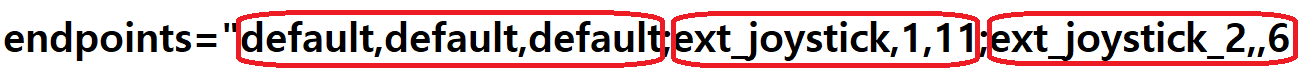
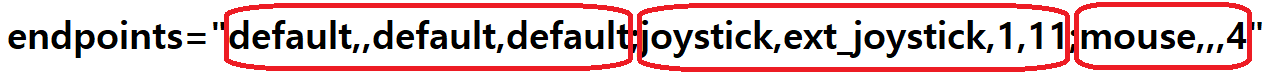
문서 보강

diff --git a/README.md b/README.md
@@ -339,7 +339,7 @@ buttonset2_cfg="default,0,6;buttonset1,0,2;{0x102,0,1},{0x103,0,1}"
 실제 사용 예
 
 ```shell
-endpoints="default,default,default,default;ext_joystick,joystick,1,11;ext_joystick_2,,,6"
+endpoints="default,,default,default;joystick,ext_joystick,1,11;mouse,,,4"
 ```
 
 이 설정은 다음과 같은 의미를 갖는다.
@@ -347,20 +347,20 @@ endpoints="default,default,default,default;ext_joystick,joystick,1,11;ext_joysti
 ![endpoint 파라미터 해석](images/param_ep_sep.png)
 
 > * 첫번째 엔드포인트
->   + 이름 : default (최종적으로 "AmosJoystick_1" 이름이 부여된다.)
->   + 엔드포이트 타입 : Joystick
->   + 사용 버튼셋 인덱스 : 0
+>   + 엔드포이트 타입 : default (기본적으로 joystick)
+>   + 이름 : 빈 값은 default로 해석 (최종적으로 "AmosJoystick_1" 이름이 부여)
+>   + 사용 버튼셋 인덱스 : default (기본적으로 joystick 타입의 default인 0)
 >   + 사용 버튼 갯수 : default (버튼셋에서 지정된 갯수)
 > * 두번째 엔드포인트
+>   + 엔드포이트 타입 : joystick
 >   + 이름 : "ext_joystick"
->   + 엔드포이트 타입 : Joystick
 >   + 사용 버튼셋 인덱스 : 1
 >   + 사용 버튼 갯수 : 11
 > * 세번째 엔드포인트
->   + 이름 : "ext_joystick_2"
->   + 엔드포이트 타입 : Joystick
->   + 사용 버튼셋 인덱스 : 0 (빈 값을 default, 즉 0으로 해석한다.)
->   + 사용 버튼 갯수 : 6
+>   + 엔드포이트 타입 : mouse
+>   + 이름 : 빈 값은 default로 해석 (최종적으로 "AmosMouse_1" 이름이 부여)
+>   + 사용 버튼셋 인덱스 : 빈 값은 default로 해석 (기본적으로 mouse 타입의 default인 2)
+>   + 사용 버튼 갯수 : 4
 
 ### device 설정
 
@@ -409,6 +409,8 @@ device1="74hc165;16,20,21,24,1;0,default,12;1,default,12"
 | mcp3008   | MCP3008 8ch 10비트 SPI ADC        |
 | ads1015   | ADS1015 4ch 12비트 I2C ADC        |
 | ads1115   | ADS1115 4ch 16비트 I2C ADC        |
+| am_spinin | am_spinin Rotary Encoder 컨트롤러 |
+
 
 ### GPIO 입력
 
@@ -739,6 +741,74 @@ sudo modprobe am_joyin buttonset1="default,0,11;{0x03,-100,100},{0x04,-100,100}"
 jstest로 테스트 해 보면 새로운 2개 축이 추가되었고, 조이스틱의 기울어짐에 따라 입력 값이 순차적으로 변하는 것을 확인할 수 있다.
 
 ![jstest for ADC](images/jstest_adc.png)
+
+
+### am_spiin Rotary Encoder 입력
+
+알카노이드와 같은 게임의 경우, 주입력 장치로 스피너를 사용한다.
+이 스피너를 구현하기 위해서는 Rotary Encoder와 같은 장치를 사용하면 된다. 이때 사용할 Rotary Encoder는 RPM 측정용 단상형이 아니라, 양방향 회전을 위한 2상형 이상을 사용해야 하며, 해상도는 최소 100 P/R 이상이어야 한다. 사실 고전 아케이드 게임이 목적이라면 그 이상의 고해상도를 필요로 하지 않는다.
+
+Rotary Encoder는 다음과 같은 형태로 주로 판매되고 있다.
+
+![Rotary Encoder](images/rotary_encoder.jpg)
+
+출력핀은 총4개로, VCC, GND의 전원핀 외에 A, B 핀이 존재한다. 전원은 보통 5V~24V이며, 라즈베리파이로부터 5V 전원을 공급받으면 된다.
+
+이를 실제로 이용하기 위해서는 Rotary Encoder 컨트롤러가 필요하다. 컨트롤러는 LS7366R과 같은 카운터칩을 사용하는 것이 제일 좋긴 하지만, 별도 모듈로 판매되는 것을 찾기 힘들고, 별도의 엔코더 카운터 보드를 구매할 경우 산업용이라 부담스러운 가격대이기에 게임기에 사용하기엔 부적절하다.
+어차피 사람의 손 움직임을 입력 받는 것이기 때문에 고속, 고정밀 컨트롤러가 필요하진 않기에, Arduino 정도의 성능으로도 충분히 스피너용 컨트롤러를 만들 수 있다.
+
+실제로 컨트롤러로 사용할 보드는 Arduino Pro Mini 5V 버전이다.
+
+![Arduino Pro Mini](images/arduino_pro_mini.jpg)
+
+이 보드용 Rotary Encoder 컨트롤러 펌웨어는 다음의 링크에서 받을 수 있다.
+
+[am_spinin 컨트롤러 펌웨어](https://github.com/amos42/am_spinin)
+
+펌웨어 업로드가 완료 되면 해당 컨트롤 보드에 결선을 시작한다.
+Rotary Encoder의 A, B 핀은 보드의 GPIO 2번과 3번 핀에 각각 연결한다.
+
+컨트롤 보드의 A4, A5핀이 I2C용 핀이며, 각각 SDA, SCL 핀이다. 이를 라즈베리파이의 GPIO2(SDA1)과 GPIO3(SCL1)에 각각 연결하면 된다.
+
+![스피너 연결도](images/spinner_connect.jpg)
+
+드라이버 설정시엔 Rotary Encoder의 P/R과 마우스의 DPI를 주의해서 설정해 주면 된다.
+
+* 디바이스 파라미터
+> 1. i2c_addr - i2c 주소값. 기본값 0x34
+> 2. rotary_ppr - Rotary Encoder의 P/R (1회전 당 펄스 발생수)
+> 3. min_value - 최소 값
+> 4. max_value - 최대 값
+> 5. sample_rate - 절대좌표를 쓸 경우 샘플링 주기. 기본값 50ms
+
+* 엔드포인트 파라미터
+> 1. config type - 버튼 설정 타입
+>    - default : pin_count, button_start_index, mouse_dpi (기본 1000dpi)
+>    - custom : mouse_dpi, code_mode (0: keycode, 1:index), {button1, value1}, ...
+
+실제 사용 예
+
+로터리 엔코더는 아케이드 게임기에서 스피너 지원을 목적으로 주로 사용된다. 때문에 단독으로 사용되기보다는 보통은 다른 버튼 입력 장치에 추가적으로 스피너를 더해서 설정하는 것이 일반적이다.
+
+다음은 기존의 74HC165 입력에 추가적으로 am_spinin으로 스피너를 추가해 준 설정이다.
+
+1p 설정의 예 (마우스 x축을 기본으로 지정)
+
+```shell
+sudo modprobe am_joyin endpoints="joystick;mouse" device1="74hc165;16,20,21,,0;0,default,13" \
+                       device2="am_spinin;0x34,600;1,1"
+```
+
+2p 설정의 예
+
+```shell
+sudo modprobe am_joyin endpoints="joystick;joystick;mouse;mouse" \
+        device1="74hc165;24,20,21,,0;0,default,12;1,default,12" \
+        device2="am_spinin;0x34,600;2,1" \
+        device3="am_spinin;0x35,600;3,1" \
+```
+
+arkanoid 등의 게임은 RetroArch 설정에서, mouse 지원을 추가해 주면 된다.
 
 
 ---
